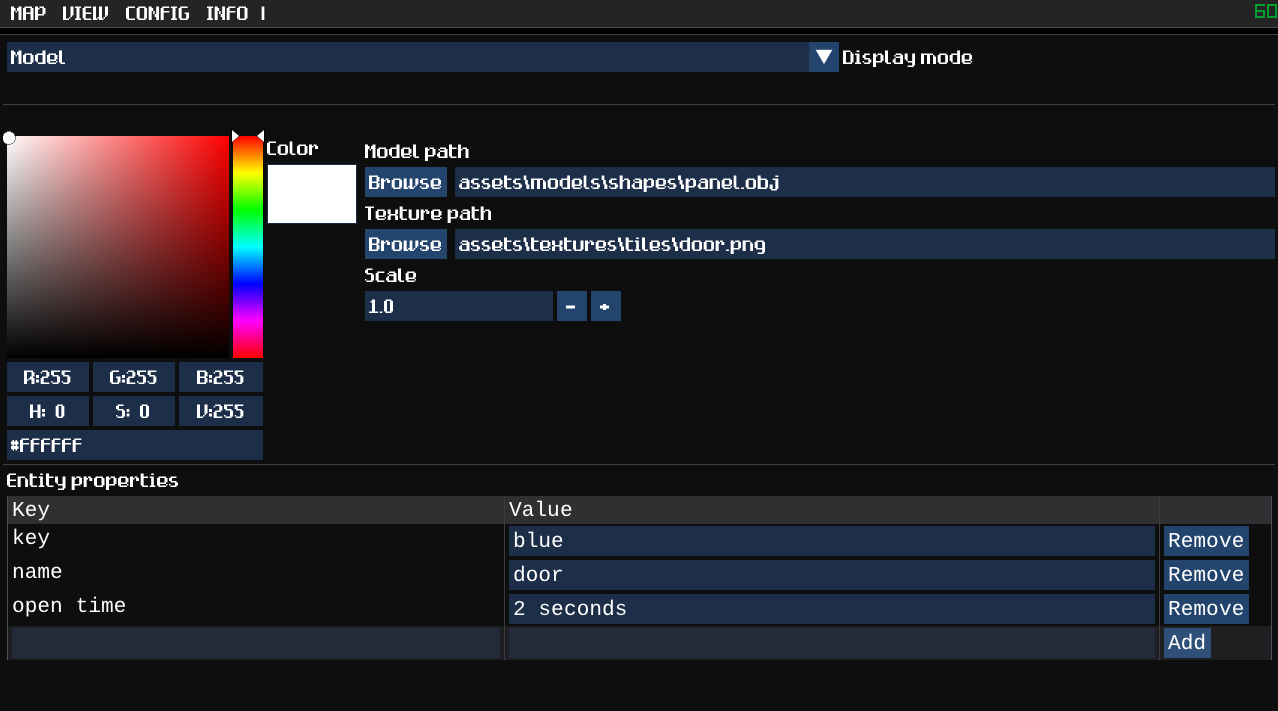
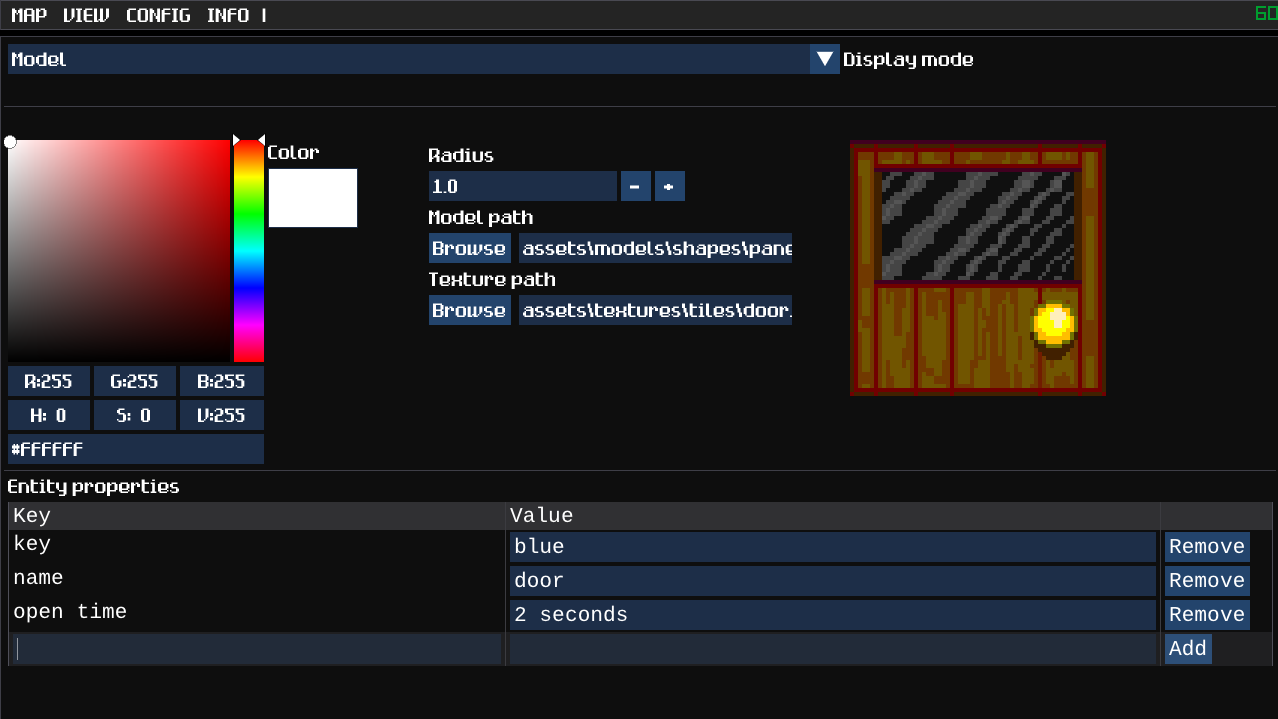
Updated documentation

diff --git a/instructions/instructions.html b/instructions/instructions.html
@@ -66,6 +66,7 @@
             <li><a href="#file_format">Using .te3 Files</a></li>
             <li><a href="#custom_tiles">Advice on Custom Tile Shapes</a></li>
             <li><a href="#special_tiles">Special tiles</a></li>
+            <li><a href="#command_line">Command line usage</a></li>
         </ol>
         <h2 id="basic_usage">Basic Usage</h2>
         <img src="instr_map.png" />
@@ -143,7 +144,8 @@
             take all of the tiles inside of the rectangle and turn them into a "brush," putting the cursor into "brush mode." In this mode, the
             cursor will copy the entire structure of tiles into the grid using left click, instead of filling the area with a single tile type.
             This can be used to avoid rebuilding complex structures in multiple places.
-            The cursor cannot erase anything using right click in this mode.
+            Right clicking will erase tiles in the shape of the brush, and the Q and E keys will rotate the brush
+            around the Y axis. Due to technical issues, the brushes can't be rotated on other axes yet.
             Pressing ESCAPE or BACKSPACE will bring the cursor into its regular "tile mode." 
         </p>
         <h2 id="layer_isolation">Layer isolation</h2>
@@ -159,7 +161,7 @@
         <img src="instr_ent3.png" />
         <p>
             &emsp;Holding LEFT CONTROL and pressing E will bring the cursor into "entity mode." Entities represent dynamic objects in a game, such as
-            player spawn points, enemies, items, and whatnot. They can be displayed as colored spheres, models, or billboard sprites, and can be assigned name tags. The game code
+            player spawn points, enemies, items, and whatnot. They can be displayed as colored spheres, models, billboard sprites, or rectangular areas, and can be assigned name tags. The game code
             can replace these with whatever they're actually supposed to be when loading the map. 
         </p>
         <p>
@@ -181,8 +183,8 @@
             should stand still and wait for the player to appear instead of searching around.
         </p>
         <p>
-            &emsp;The text field below the property list is used to add properties. The text in the field will be used as the key, 
-            and pressing the add button will add that property to the list. 
+            &emsp;The text field below the property list is used to add properties. The text in the left field will be used as the key, 
+            and pressing the add button or pressing enter will add that property to the list. You can also use the tab key to jump to the next available text field down the list.
             The value of the property can be edited directly in the property list by clicking on its text field.
             Pressing the remove button will remove the property it's next to.
             Removing the "name" property will remove the name tag from the entity in the map editor, and it is otherwise nonessential.
@@ -200,12 +202,31 @@
             <img src="instr_ent6.png" />
         </span>
         <p>
-            &emsp;Since version 3.1, entities can be displayed as either spheres, billboard sprites, or textured models.
-            This can be changed by using the drop-down menu at the top of the entity menu. For models, the texture is optional.
-            Like the spheres, the sprites and models can be sized and colored individually.
-        </p>
-        <p>
-            &emsp;The model display mode is particularly useful for representing <i>dynamic tiles:</i> tiles that can be interacted with and move separately from the rest of the map's geometry, like doors, switches, or elevators.
+            &emsp;Entities can be displayed in various ways:
+            <ul>
+                <li>
+                    Sphere — A sphere that can be colored and resized.
+                </li>
+                <li>
+                    Model — A 3D model that may have a texture, color, and scale factor.
+                    <ul>
+                        <li>Useful for representing <i>dynamic tiles:</i> tiles that can be interacted with and move separately from the rest of the map's geometry, like doors, switches, or elevators.</li>
+                    </ul>
+                </li>
+                <li>
+                    Sprite — A 2D billboard that can show a portion of a texture and change its color & scale.
+                </li>
+                <li>
+                    Wireframe Sphere — Same as the 'Sphere' display mode but wireframe, so you can see through it.
+                </li>
+                <li>
+                    Area — This kind of entity represents a rectangular area of tiles that can be colored.
+                    <ul>
+                        <li>Click and drag while placing this entity type to extend its size like in the rectangle mode for tiles.</li>
+                        <li>This can be useful for marking off invisible zones in a level, like triggers for scripted events.</li>
+                    </ul>
+                </li>
+            </ul>
         </p>
         <h2 id="undo_redo">Undo/Redo</h2>
         <p>
@@ -269,7 +290,7 @@
 {
     "meta": {                                                // Information about the program used to make the file
         "editor": "Total Editor",
-        "version": "3.2"
+        "version": "3.3.0"
     },
     "editorCamera": {                                        // The orientation of the camera in the editor when it was last saved.
         "eulerAngles": [0.0, 0.0, 0.0],                      // Angles are in degrees.
@@ -280,10 +301,15 @@
             "position": [0.0, 12.0, 3.0],                    // Position in world coordinates
             "color": [255, 0, 0],                            // Red, green, blue color
             "angles": [0.0, 90.0, 0.0],                      // Euler angles (the Z angle is always 0)
-            "radius": 0.75,                                  // Radius of sphere (for models & sprites, this is the same as the scale)
-            "display": 1,                                    // Entity display mode (0 = sphere, 1 = model, 2 = sprite)
+            "radius": 0.75,                                  // Radius of sphere (for models & sprites, this is the same as the scale) (will not be present for area ents)
+            "area": {                                        // The bounding box for area ents in world space, relative to the ent's position.
+                "min": [-1, -1, -1],
+                "max": [11, 1, 15]
+            },
+            "display": 1,                                    // Entity display mode (0 = sphere, 1 = model, 2 = sprite, 3 = wire sphere, 4 = area)
             "model": "assets/models/geoffrey.obj",           // Path to model file (only when display mode == 1)
             "texture": "assets/textures/skins/geoffrey.png", // Path to texture file (only when display mode == 1 or 2)
+            "mask": [32, 64, 64, 64],                        // X, Y, Width, and Height of the portion within the texture being shown. Only available if "Show only a portion of this texture" is checked.
             "properties": [
                 "name": "geoffrey",
                 "age": "120",
@@ -316,11 +342,16 @@
             It converts binary data into something that can be compactly printed as characters in a text file.
             In binary, the data is laid out in the following structure:
             <pre>
+// This is what the bytes will look like when modelID >= 0
 struct Tile {
-    int16_t modelID,       // The index into the "shapes" JSON array. If less than 0, represents a run of blank tiles of length -modelID.
-    int16_t textureIDs[2], // The indices into the "textures" JSON array. Primary texture is first, then secondary.
-    uint8_t yaw,           // The yaw angle of the tile. Value is 0-3 for each 90 degree increment.
-    uint8_t pitch,         // The pitch angle. Value is 0-3 for each 90 degree increment.
+    int16_t modelID;       // The index into the "shapes" JSON array.
+    int16_t textureIDs[2]; // The indices into the "textures" JSON array. Primary texture is first, then secondary.
+    uint8_t yaw;           // The yaw angle of the tile. Value is 0-3 for each 90 degree increment.
+    uint8_t pitch;         // The pitch angle. Value is 0-3 for each 90 degree increment.
+};
+// This is what the bytes will look like when modelID < 0
+struct RunOfBlankTiles {
+    int16_t modelID;
 };
             </pre>
             The byte order / endianness will match that of the machine used to save the file. In most cases, this will be little endian.
@@ -341,8 +372,8 @@ struct Tile {
             actually spaced by 2 units in world space, because each tile model is 2 units wide.<br/>
             &emsp;<b>Since version 3.1, blank tiles are represented by "run length encoding"</b>. This means that when parsing a .te3 file,
             encountering a tile with a modelID less than 0 represents multiple successive blank tiles, the number of which is equal to
-            the absolute value of the modelID. For the code above to work, t would have to be increased by -modelID when modelID < 0.
-            <b>When modelID < 0, the remaining bytes of the tile data structure are not present.</b>
+            the absolute value of the modelID. For the code above to work, t would have to be increased by -modelID when modelID < 0, and the bytes immediately
+            after the modelID will be the start of the next tile instead.
         </p>
         <h3>Rendering the tiles in-game</h3>
         <p>
@@ -422,5 +453,22 @@ struct Tile {
             <img src="instr_corner1.png" />
             <img src="instr_corner2.png" />
         </span>
+
+        <h2 id="command_line">Command Line Usage</h2>
+        <p>
+            The editor can be launched from the command line to facilitate some automation:
+        </p>
+        <pre>
+            & ".\Total Editor 3.exe" ".\assets\maps\myLevel.te3" --camera-position="2.5, 10.25, 30.5" --camera-yaw-degrees=45 --camera-pitch-degrees=-45
+        </pre>
+        <p>
+            The first parameter will open the named map file as soon as the editor opens. 
+            The other arguments can be used to position the camera; for instance, this could be used to
+            launch the editor from inside a game and have the editor's camera be where the player was standing.
+        </p>
+        <p>
+            If a map is opened from the command line, modifying the map and saving will cause the program to return the status code 100, instead of the usual 0.
+            This can be used to indicate to the game that the map needs to be reloaded after an edit.
+        </p>
     </body>
 </html>

diff --git a/todo.md b/todo.md
@@ -1,6 +1,5 @@
 # TODO
 - Add extra example map
-- Update docs
 - Add application icon?
 ## Considered future updates
 
